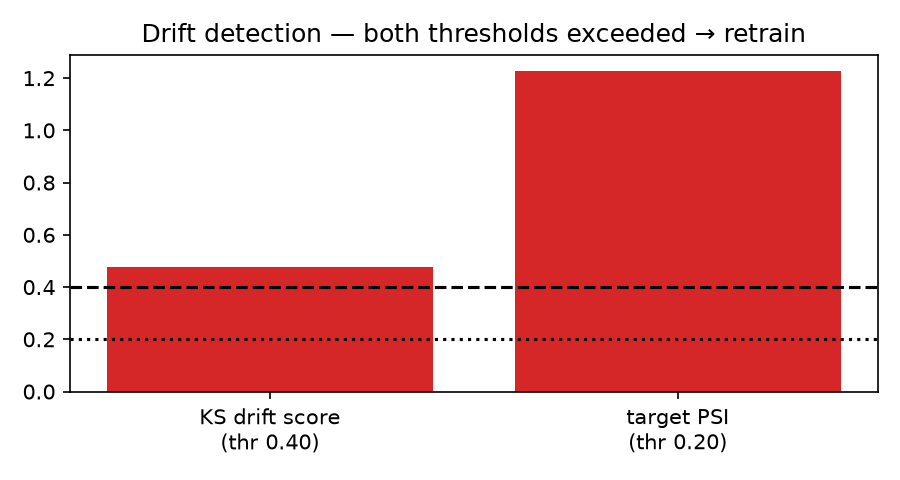
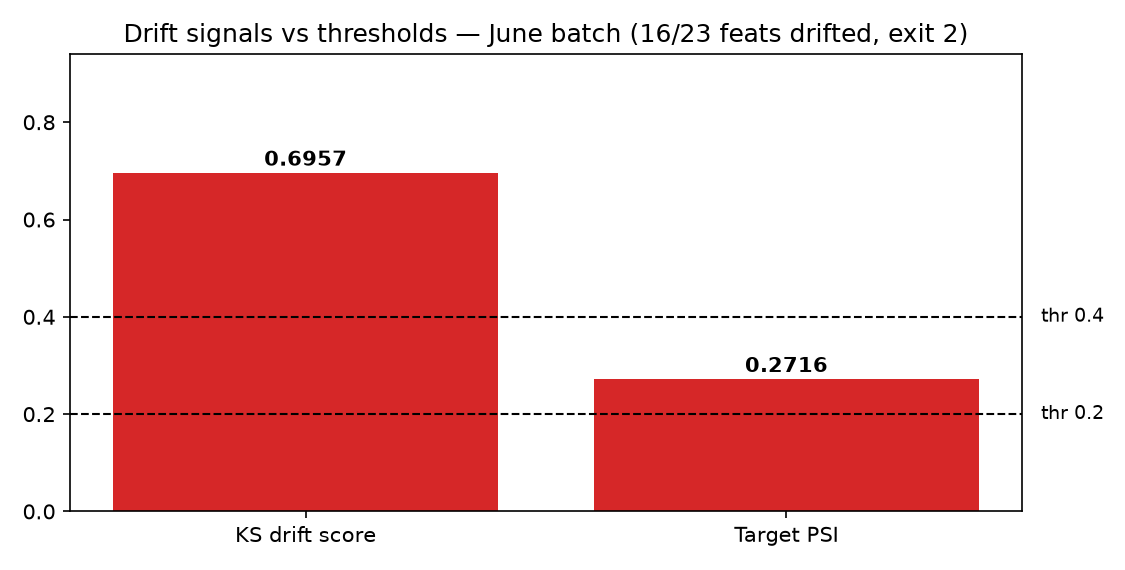
docs: evidence bundle for report handoff (fresh drift v8 numbers, CI logs)

diff --git a/report/evidence_bundle/MANIFEST.md b/report/evidence_bundle/MANIFEST.md
@@ -1,0 +1,65 @@
+# Evidence bundle — numbers & captions for the report (do NOT edit Typst, paste from here)
+
+Generated 2026-11-07. All figures are PNGs in this folder; all logs are .txt.
+Cloud upload status: these exact files already live in the group Typst project
+under `figs/` (uploaded 2026-11-07, diagnostics 0 errors).
+
+## 1. Drift numbers — CURRENT (old report text is STALE, replace it)
+
+- KS drift score: **0.6957** (16/23 features, threshold 0.40) — was 0.4783/11-23 on the old sample
+- Target PSI (`target_norm`): **0.2716** (threshold 0.20) — was 1.229 on the old sample
+- Verdict: DRIFT DETECTED, exit code 2
+- Figure: `fig_drift.png` (REGENERATED to match these numbers)
+- Source: `logs_monitoring.txt` (top section)
+- Suggested caption: "Data drift on the June batch vs train: KS score 0.6957 (16/23 feats, thr 0.40), target PSI 0.2716 (thr 0.20). Both exceeded — exit 2, retrain triggered."
+
+## 2. Retraining history — CURRENT (report table stops at v6, extend it)
+
+| Ver | Test RMSE | Test R² | Outcome |
+| v1 | 0.09320 | 0.8471 | first model → candidate |
+| v2 | 0.10032 | 0.8228 | worse — upload skipped |
+| v3 | 0.10257 | 0.8148 | worse — upload skipped |
+| v4 | 0.09089 | 0.8546 | better → candidate + uploaded |
+| v5 | 0.10221 | 0.8161 | worse — upload skipped |
+| v6 | 0.09454 | 0.8427 | champion (human-approved, local registry) |
+| v7 | 0.09569 | 0.8388 | worse — stays candidate |
+| v8 | 0.09610 | 0.8374 | worse — stays candidate |
+
+- Figure: `fig_rmse_versions.png` (REGENERATED, shows v1–v8, champion line at v6)
+- Note: CI runners have their own registry copy (cache); there the champion is v9
+  (promoted via manual approve demo, RMSE 0.10051). Local champion stays v6.
+
+## 3. Live demo (push trigger) — run 42370904088, Success, 5m25s
+
+- Figures: `fig_gh_demo_run.png` (run page + address bar), `fig_ci_demo.png` (log screenshot)
+- Raw log: `ci_demo_run_log.txt` (9 lines: TEST_RMSE 0.09017 → candidate → PENDING → live eval hold ratio 0.859 → DRIFT 0.70)
+- Commit: `data: add new June batch for retraining demo`
+
+## 4. Manual trigger proof — run 42371968291, `workflow_dispatch` approve=true
+
+- Figure: `fig_promote.png` (PROMOTED — champion -> v9 (human approved))
+- Raw log: `ci_manual_approve_log.txt` (7 lines)
+- Also fixed that day: cold-runner `mkdir -p logs` before tee; evaluate exit-2 no longer fails the pipeline
+
+## 5. Monitoring trail (Studio-9 layout)
+
+- Raw: `logs_monitoring.txt` — drift_detection.log tail, monitoring.log tail,
+  artifacts/metadata/*.txt (data SHA, model version, last retrain), alerts list, training.log tail
+- Figures: `fig_logs.png` (log trail screenshot), `fig_dashboard.png` (monitoring_dashboard.html)
+- Brief coverage: monitoring/{reports,logs,alerts} ✓, metadata versions ✓,
+  logs/{training,monitoring,drift_detection} ✓, reports/{drift,performance,dashboard} ✓,
+  checkpoint.pt INSTEAD OF model.keras (PyTorch LSTM, deliberate), validated CSV INSTEAD OF .npy
+
+## 6. Other figures (unchanged, already on cloud)
+
+- `fig_pipeline.png`, `fig_ev_commits.png`, `fig_ev_dvc.png`, `fig_gh_run.png`,
+  `fig_gh_repo.png`, `fig_training_curve.png`, `fig_mlflow_runs.png`,
+  `fig_mlflow_registry.png`, `fig_jira_board.png`
+
+## 7. Things the report should fix (found while reviewing the pasted draft)
+
+1. Drift numbers + v1–v6-only table/figure text → replace with §1–2 above.
+2. DVC stage table misses new outputs (metadata/*.txt, logs/training.log, dashboard, alerts).
+3. `figs/github_action_interface.png` is referenced but was never uploaded by me — check it exists on the cloud project or remove the figure.
+4. Commit counts ("15 commits") and run durations ("2m46s") are stale — recount at write time.
+5. `4. Conclusion.typ` is still empty (explore team's part).
